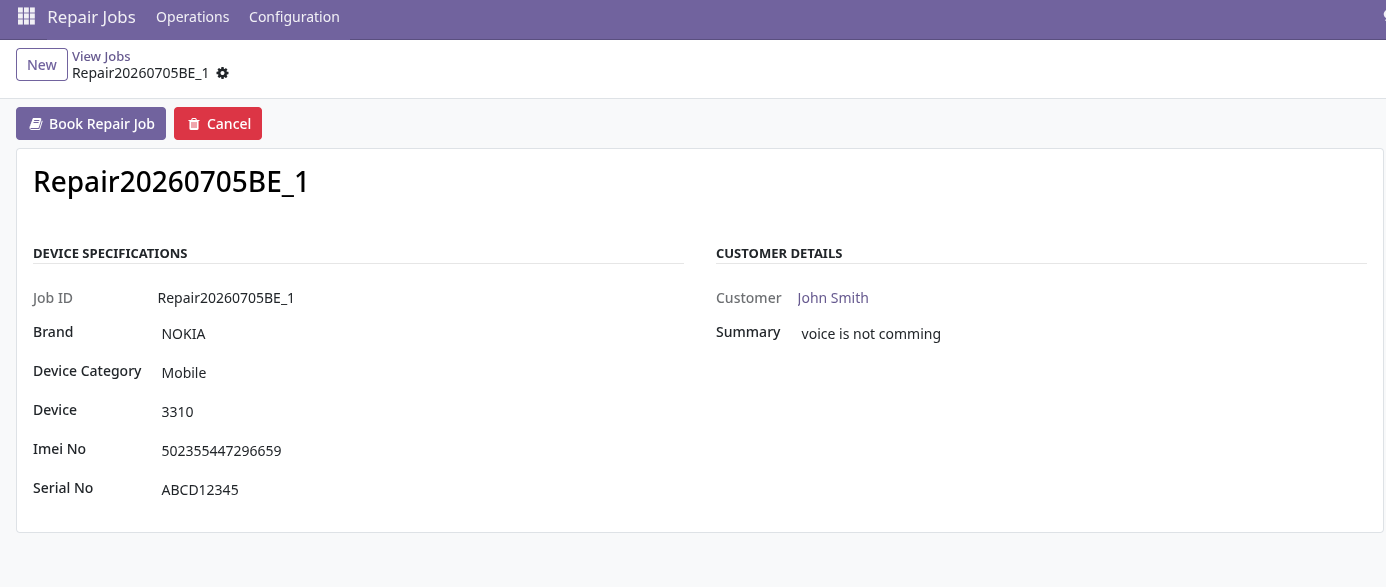
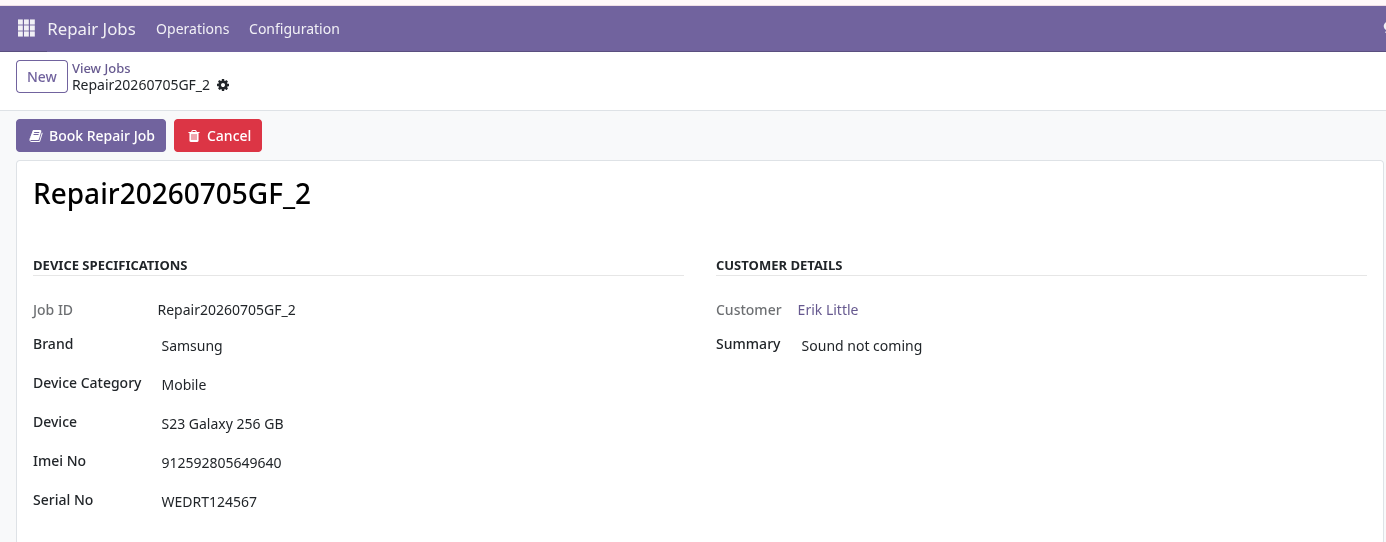
ci: ongoing development updates

diff --git a/custom_addons/repair_clinics/models/repair_job.py b/custom_addons/repair_clinics/models/repair_job.py
@@ -1,5 +1,5 @@
 from odoo import models, fields, api
-from odoo.exceptions import ValidationError
+from odoo.exceptions import ValidationError,UserError
 from datetime import datetime,timezone
 
 from odoo import models, fields, api
@@ -8,7 +8,7 @@ from odoo.exceptions import ValidationError
 class RepairJob(models.Model):
     _name = "repair.job"
     _description = "Repair Job Management"
-    _inherit = ['mail.thread']
+    
 
     name = fields.Char('Ticket #', default='New', readonly=True, copy=False)
     summary = fields.Text('Summary', required=True)
@@ -89,22 +89,29 @@ class RepairJob(models.Model):
     @api.model_create_multi
     def create(self, vals_list):
         for vals in vals_list:
-            if vals.get("name",'New') == 'New':
+            if vals.get("name", "New") == "New" or vals.get("name", "/") == "/":
                 now = datetime.now()
-                date = now.strftime("%Y%m%d")
+                date_str = now.strftime("%Y%m%d") 
+                
                 partner = self.env['res.partner'].browse(vals.get('partner_id'))
-                country_code = partner.country_id.code if partner.country_id else 'XX'
-                prefix = f"Repair{date}{country_code}_"                
-                last_job = self.search([('name', '=like', f"{prefix}%")], order='name desc', limit=1)
+                country_code = partner.country_id.code if partner.country_id and partner.country_id.code else 'XX'
+                
+                search_prefix = f"Repair{date_str}"                
+                last_job = self.search([('name', '=like', f"{search_prefix}%")], order='name desc', limit=1)
                 next_number = 1
+                
                 if last_job:
                     try:
                         last_sequence_str = last_job.name.split("_")[-1]
-                        next_number = int(last_sequence_str)+1
-                    except (ValueError,IndexError):
+                        next_number = int(last_sequence_str) + 1
+                    except (ValueError, IndexError):
                         next_number = 1
 
-                vals['name'] = f"{prefix}{next_number}"
+                vals['name'] = f"{search_prefix}{country_code}_{next_number}"
+
+
+                if vals.get('state') == 'draft':
+                    vals['state'] = 'received'
         
         return super().create(vals_list)
     
@@ -118,3 +125,15 @@ class RepairJob(models.Model):
                 vals['repair_complete_date'] = False
 
         return super().write(vals)
+    
+
+    def unlink(self):
+        for job in self:
+            # Block deletion if the job has progressed past draft or received
+            if job.state not in ['draft', 'received']:
+                raise UserError(_(
+                    "Security Restriction: You can only delete repair jobs that are in 'Draft' or 'Received' status. "
+                    "Job (%s) is currently '%s' and cannot be removed."
+                ) % (job.name, job.state.capitalize()))        
+        
+        return super(RepairJob, self).unlink()

diff --git a/custom_addons/repair_clinics/__manifest__.py b/custom_addons/repair_clinics/__manifest__.py
@@ -1,11 +1,17 @@
 {
     'name': 'Repair Clinics',
+    'summary': 'Streamlined device repair tracking compliant with EU Directive 2024/1799 framework rules.',
     'version': '19.0.1.0.0',
-    'category': 'Services/Repair',
-    'sequence': 5,
-    'summary': 'Core Booking & Device Tracking for Electronic Gadgets',
-    'depends': ['base','mail'],
-    'author': 'Coder4web@yahoo.com',
+    'category': 'Services',
+    'author': 'Coder4Web',
+    'website': 'mailto:coder4web@yahoo.com',
+    'license': 'OPL-1',
+    'price': 20.00,
+    'currency': 'EUR',
+    'depends': [
+        'base',
+        'account',
+    ],
     'data': [
         'security/ir.model.access.csv',
         'views/repair_brand.xml',
@@ -15,8 +21,16 @@
         'views/menus/repair_clinics_menu.xml',
         'views/menus/repair_configuration_menu.xml',
     ],
+    'demo': [
+        'demo/repair_category_demo.xml',
+        'demo/repair_brand_demo.xml',
+        'demo/repair_device_demo.xml',
+    ],
+    'images': [
+        'static/description/banner.png',        
+        'static/description/repair_job.png'
+    ],
     'installable': True,
-    'auto_install': False,
     'application': True,
-    'license': 'OPL-1',
+    'auto_install': False,
 }
